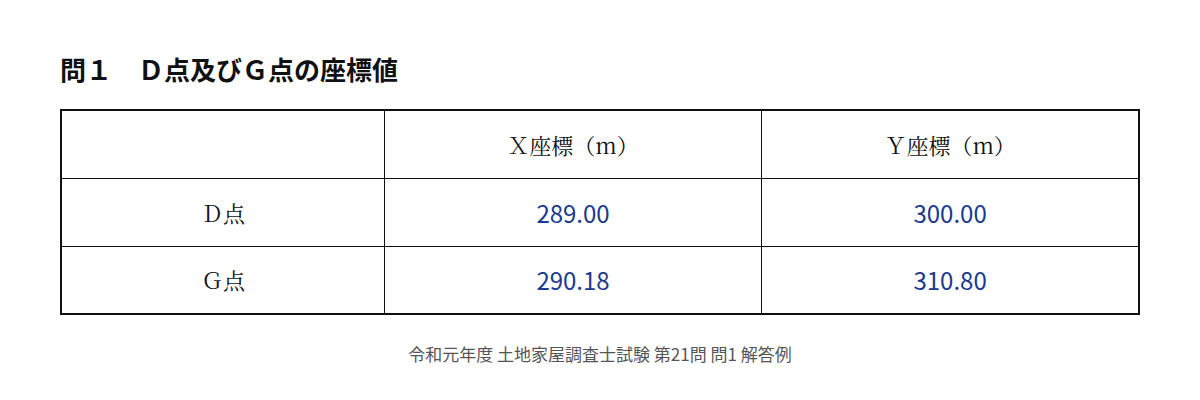
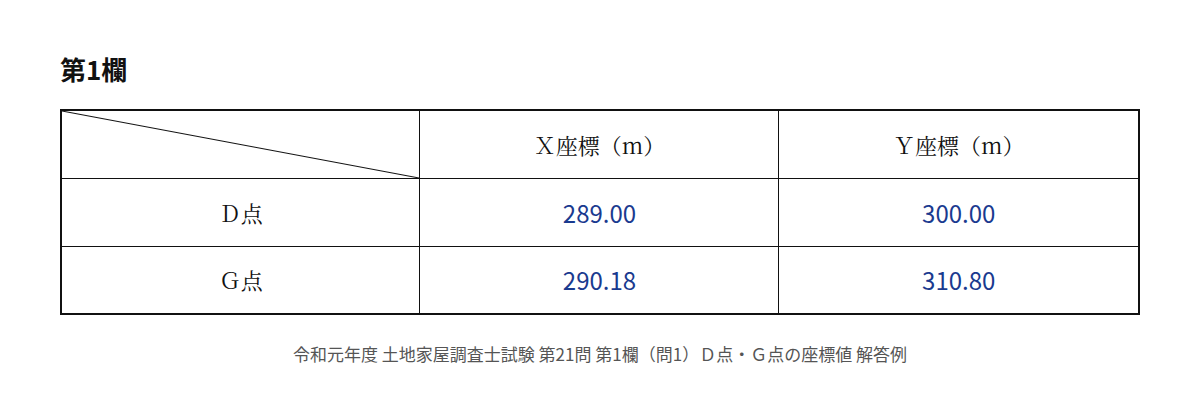
R1 Q21：試験の答案用紙の実物に合わせて第1欄・第2欄の画像を直した
仮の形（見出し「問１」「問２」、第2欄は2列の表）を、実物どおり見出し「第1欄」「第2欄」、第1欄は斜線のセルと等幅3列、第2欄は⑴〜⑶の見出しの下に記入枠を1つずつに直した。答案用紙の見出しは「関係人の氏名」でも問題文どおり名称（Ａ市）も書くこと、第3欄・第4欄の印刷済みのものと方位記号を描くことを記事と図12に追加。照合スクリプトで答案用紙PDFの印刷文字を確かめるようにした。答えは変えていない（verify NG 0件、lint違反なし、重なり0件）。

Claude-Session: https://claude.ai/code/session_014aMAcBjFaE2M2LioX2yxPf

diff --git a/note-articles-Kijyutsu/R1/Q21/zu/R1_dai21mon_dai1ran_kansei.html b/note-articles-Kijyutsu/R1/Q21/zu/R1_dai21mon_dai1ran_kansei.html
@@ -8,7 +8,12 @@ table.ans td { border: 1.5px solid #111; font-size: 22px; height: 68px; padding:
 table.ans td.c { text-align: center; }
 table.ans td.lab { height: 46px; font-size: 20px; }
 table.ans td.long { height: auto; padding: 16px 18px; line-height: 1.75; }
+table.ans td.diag { background: linear-gradient(to top right, transparent calc(50% - 1px), #111 50%, transparent calc(50% + 1px)); }
+.sub { font-size: 22px; margin: 6px 0 10px 4px; }
+.sub + .wbox { margin-left: 30px; }
+.wbox { border: 2.5px solid #111; min-height: 120px; padding: 18px 24px; margin-bottom: 26px; display: flex; align-items: center; }
+.wbox .ink { color: #1a3a8f; font-family: "Noto Sans CJK JP", "IPAGothic", sans-serif; font-size: 26px; line-height: 1.6; }
 table.ans .ink { color: #1a3a8f; font-family: "Noto Sans CJK JP", "IPAGothic", sans-serif; font-size: 24px; }
 .ran .caption { text-align: center; font-size: 17px; color: #555; margin-top: 26px;
                 font-family: "Noto Sans CJK JP", "IPAGothic", sans-serif; }
-</style></head><body><div class="ran"><h2>問１　Ｄ点及びＧ点の座標値</h2><table class="ans"><colgroup><col style="width:30%"><col style="width:35%"><col style="width:35%"></colgroup><tr><td class="c"></td><td class="c">Ｘ座標（m）</td><td class="c">Ｙ座標（m）</td></tr><tr><td class="c">Ｄ点</td><td class="c"><span class="ink">289.00</span></td><td class="c"><span class="ink">300.00</span></td></tr><tr><td class="c">Ｇ点</td><td class="c"><span class="ink">290.18</span></td><td class="c"><span class="ink">310.80</span></td></tr></table><div class="caption">令和元年度 土地家屋調査士試験 第21問 問1 解答例</div></div></body></html>
+</style></head><body><div class="ran"><h2>第1欄</h2><table class="ans"><colgroup><col style="width:33.3%"><col style="width:33.3%"><col style="width:33.4%"></colgroup><tr><td class="c diag"></td><td class="c">Ｘ座標（m）</td><td class="c">Ｙ座標（m）</td></tr><tr><td class="c">Ｄ点</td><td class="c"><span class="ink">289.00</span></td><td class="c"><span class="ink">300.00</span></td></tr><tr><td class="c">Ｇ点</td><td class="c"><span class="ink">290.18</span></td><td class="c"><span class="ink">310.80</span></td></tr></table><div class="caption">令和元年度 土地家屋調査士試験 第21問 第1欄（問1）Ｄ点・Ｇ点の座標値 解答例</div></div></body></html>

diff --git a/note-articles-Kijyutsu/R1/Q21/zu/R1_dai21mon_dai2ran_kansei.html b/note-articles-Kijyutsu/R1/Q21/zu/R1_dai21mon_dai2ran_kansei.html
@@ -8,7 +8,12 @@ table.ans td { border: 1.5px solid #111; font-size: 22px; height: 68px; padding:
 table.ans td.c { text-align: center; }
 table.ans td.lab { height: 46px; font-size: 20px; }
 table.ans td.long { height: auto; padding: 16px 18px; line-height: 1.75; }
+table.ans td.diag { background: linear-gradient(to top right, transparent calc(50% - 1px), #111 50%, transparent calc(50% + 1px)); }
+.sub { font-size: 22px; margin: 6px 0 10px 4px; }
+.sub + .wbox { margin-left: 30px; }
+.wbox { border: 2.5px solid #111; min-height: 120px; padding: 18px 24px; margin-bottom: 26px; display: flex; align-items: center; }
+.wbox .ink { color: #1a3a8f; font-family: "Noto Sans CJK JP", "IPAGothic", sans-serif; font-size: 26px; line-height: 1.6; }
 table.ans .ink { color: #1a3a8f; font-family: "Noto Sans CJK JP", "IPAGothic", sans-serif; font-size: 24px; }
 .ran .caption { text-align: center; font-size: 17px; color: #555; margin-top: 26px;
                 font-family: "Noto Sans CJK JP", "IPAGothic", sans-serif; }
-</style></head><body><div class="ran"><h2>問２　筆界特定（平成18年9月の申請）</h2><table class="ans"><colgroup><col style="width:34%"><col style="width:66%"></colgroup><tr><td class="">（1）対象土地の地番</td><td class="long"><span class="ink">6番、5番</span></td></tr><tr><td class="">（2）関係土地の地番</td><td class="long"><span class="ink">2番32、3番3、100番</span></td></tr><tr><td class="">（3）関係人の氏名又は名称</td><td class="long"><span class="ink">北冬子、山川一郎、東春男、東春子、西秋男、Ａ市</span></td></tr></table><div class="caption">令和元年度 土地家屋調査士試験 第21問 問2 解答例</div></div></body></html>
+</style></head><body><div class="ran"><h2>第2欄</h2><div class="sub">（1）　対象土地の地番</div><div class="wbox"><span class="ink">6番、5番</span></div><div class="sub">（2）　関係土地の地番</div><div class="wbox"><span class="ink">2番32、3番3、100番</span></div><div class="sub">（3）　関係人の氏名</div><div class="wbox"><span class="ink">北冬子、山川一郎、東春男、東春子、西秋男、Ａ市</span></div><div class="caption">令和元年度 土地家屋調査士試験 第21問 第2欄（問2）筆界特定（平成18年9月の申請）解答例</div></div></body></html>

diff --git a/note-articles-Kijyutsu/R1/Q21/verify_R1_dai21mon_kaiwa.py b/note-articles-Kijyutsu/R1/Q21/verify_R1_dai21mon_kaiwa.py
@@ -332,15 +332,69 @@ for s_ in ['だから（1）は5番と6番', '（2）は2番32、3番3、100番'
     check('問2の答えを会話で明示', s_)
 html_1 = open(os.path.join(ZU, 'R1_dai21mon_dai1ran_kansei.html'), encoding='utf-8').read()
 html_2 = open(os.path.join(ZU, 'R1_dai21mon_dai2ran_kansei.html'), encoding='utf-8').read()
-for s_ in ['問１　Ｄ点及びＧ点の座標値', 'Ｘ座標（m）', 'Ｙ座標（m）', '>289.00<', '>300.00<', '>290.18<', '>310.80<', '問1 解答例']:
-    check('問1の画像（HTML）', s_, html_1, '問1画像')
-for s_ in ['（1）対象土地の地番', '>6番、5番<', '（2）関係土地の地番', '>2番32、3番3、100番<', '（3）関係人の氏名又は名称',
-           '>北冬子、山川一郎、東春男、東春子、西秋男、Ａ市<', '問2 解答例']:
-    check('問2の画像（HTML）', s_, html_2, '問2画像')
-absent('問2の画像に申請人の北冬男がない', '北冬男', html_2, '問2画像')
-for s_ in ['Ｄ点「289.00」「300.00」、Ｇ点「290.18」「310.80」', '「（3）関係人の氏名又は名称」に「北冬子、山川一郎、東春男、東春子、西秋男、Ａ市」',
-           '**仮のもの**']:
-    check('問1・問2の画像のプロンプト', s_, form, '登記申請書')
+for s_ in ['<h2>第1欄</h2>', 'Ｘ座標（m）', 'Ｙ座標（m）', 'class="c diag"', '>289.00<', '>300.00<', '>290.18<', '>310.80<',
+           '第1欄（問1）Ｄ点・Ｇ点の座標値 解答例']:
+    check('第1欄の画像（HTML）', s_, html_1, '第1欄画像')
+for s_ in ['<h2>第2欄</h2>', '（1）　対象土地の地番', '>6番、5番<', '（2）　関係土地の地番', '>2番32、3番3、100番<',
+           '（3）　関係人の氏名', '>北冬子、山川一郎、東春男、東春子、西秋男、Ａ市<', 'class="wbox"', '第2欄（問2）筆界特定（平成18年9月の申請）解答例']:
+    check('第2欄の画像（HTML）', s_, html_2, '第2欄画像')
+absent('第1欄の画像の見出しは印刷どおり欄の番号だけ', '<h2>第1欄　', html_1, '第1欄画像')
+absent('第2欄の画像の見出しは印刷どおり欄の番号だけ', '<h2>第2欄　', html_2, '第2欄画像')
+absent('第2欄の画像に申請人の北冬男がない', '北冬男', html_2, '第2欄画像')
+absent('第2欄の画像の見出しは答案用紙どおり（問題文の「又は名称」は印刷されていない）', '氏名又は名称', html_2, '第2欄画像')
+absent('第2欄の画像は答案用紙どおり表にしない', '<table', html_2, '第2欄画像')
+for h_, n_ in [(html_1, '第1欄画像'), (html_2, '第2欄画像')]:
+    for bad_ in ['問１', '問２']:
+        absent('見出しは欄の番号（問の番号ではない）', bad_, h_, n_)
+for s_ in ['Ｄ点「289.00」「300.00」、Ｇ点「290.18」「310.80」', '（3）に「北冬子、山川一郎、東春男、東春子、西秋男、Ａ市」',
+           '試験の答案用紙（`touan_youshi/R1_dai21mon_touan_youshi.pdf`、A3横2ページ）で確かめて直した',
+           '答案用紙の（3）の見出しは「関係人の氏名」と印刷されている']:
+    check('第1欄・第2欄の画像のプロンプト', s_, form, '登記申請書')
+
+# ---- 試験の答案用紙（touan_youshi/）の欄の形（2026-10-02追加）----
+# 答案用紙の実物（PDFのテキスト層）に、記事・画像が前提にしている欄の名前・印刷文字があるか。
+import pymupdf  # noqa: E402
+TY = os.path.join(HERE, 'touan_youshi')
+pdf_ = pymupdf.open(os.path.join(TY, 'R1_dai21mon_touan_youshi.pdf'))
+nz_ = lambda t: re.sub(r'\s', '', t).translate(str.maketrans('０１２３４５６７８９', '0123456789'))  # noqa: E731
+t1_, t2_ = nz_(pdf_[0].get_text()), nz_(pdf_[1].get_text())
+for s_ in ['第1欄', 'Ｘ座標（m）', 'Ｙ座標（m）', 'Ｄ点', 'Ｇ点', '第2欄', '⑴対象土地の地番', '⑵関係土地の地番', '⑶関係人の氏名',
+           '第3欄', '登記申請書', '登記の目的', '添付書類', '登録免許税', '申請人', '代理人', '（略）', '令和元年10月18日申請Ａ地方法務局',
+           '所在', '①地番', '②地目', '③地積', '登記原因及びその日付']:
+    check('答案用紙1ページ目の印刷', nz_(s_), t1_, '答案用紙')
+absent('答案用紙の第2欄（3）の見出しに「又は名称」はない', '関係人の氏名又は名称', t1_, '答案用紙')
+order_ = [t1_.index(k) for k in ['登記の目的', '添付書類', '登録免許税', '申請人', '代理人', '令和元年10月18日', '所在']]
+judge('答案用紙の第3欄の順序（登録免許税・申請人が申請の日付より上）', order_ == sorted(order_))
+for s_ in ['第4欄', '地番', '地積測量図', '土地の所在', '作成者', '（令和元年○月○日作成）', '申請人', '縮尺', '1250']:
+    check('答案用紙2ページ目（第4欄）の印刷', s_, t2_, '答案用紙')
+judge(f'答案用紙2ページ目の「（略）」は作成者・申請人の2か所（{t2_.count("（略）")}）', t2_.count('（略）') == 2)
+absent('答案用紙の第4欄に方位記号の印刷はない（文字の「N」がない）', 'N', t2_, '答案用紙')
+# 第4欄の作図の枠の大きさ（150dpiのPNGで罫線を数える）
+im_ = Image.open(os.path.join(TY, 'R1_dai21mon_touan_youshi_p2.png')).convert('L')
+W_, H_ = im_.size
+px_ = im_.load()
+col_ = [y for y in range(H_) if px_[int(W_ * 0.35), y] < 128]
+row_ = [x for x in range(W_) if px_[x, int(H_ * 0.42)] < 128]
+inner_y = [y for y in col_ if H_ * 0.06 < y < H_ * 0.9]
+inner_x = [x for x in row_ if W_ * 0.15 < x < W_ * 0.93]
+fw_, fh_ = (max(inner_x) - min(inner_x)) / 150 * 25.4, (max(inner_y) - min(inner_y)) / 150 * 25.4
+judge(f'第4欄の作図の枠が横約30cm・縦約23cm（{fw_:.0f}mm × {fh_:.0f}mm）', round(fw_ / 10) == 30 and round(fh_ / 10) == 23)
+# 記事・図・プロンプトが答案用紙の形どおりに説明しているか
+for s_ in ['D点とG点の座標（答案用紙の第1欄）', '（第2欄）', '登記申請書（第3欄）', '地積測量図（第4欄）',
+           '第2欄の（3）の見出しは『関係人の氏名』とだけ印刷されている', '答案用紙の第3欄の順番どおりにね',
+           '『令和元年10月18日　申請　A地方法務局』は印刷済み', '下の作成者・申請人の欄は『（略）』、縮尺の1／250も印刷済み',
+           '方位記号は印刷されていないから、自分で描きなさい', '第4欄の枠は横約30cm・縦約23cm']:
+    check('記事の答案用紙の説明', s_)
+for s_ in ['第4欄の枠は横約30cm・縦約23cm', '作成者・申請人の「（略）」と縮尺1/250は印刷済み。方位記号は印刷がないので描く。',
+           '図12　問4（第4欄）地積測量図']:
+    check('図12（作図）の説明文', s_, draw, '作図')
+check('図12（プロンプト）の答案用紙の第4欄', '方位記号の印刷はない', fig, '解説図')
+check('添削のプロンプトで答案用紙と照合', '試験の答案用紙（`touan_youshi/R1_dai21mon_touan_youshi.pdf` の第3欄）と照らして', fix, '添削')
+# 「仮」の形・「答案用紙がない」の記述が残っていないか
+mk_ = open(os.path.join(ZU, 'make_R1_dai21mon_shinseisho_gazou.py'), encoding='utf-8').read()
+for src_, n_ in [(text, '記事'), (fig, '解説図'), (form, '登記申請書'), (fix, '添削'), (draw, '作図'), (mk_, '画像生成')]:
+    for bad_ in ['仮の', '仮のもの', '（仮）', '欄の形は仮', 'リポジトリにない', 'リポジトリになく']:
+        absent('仮の欄の形の記述', bad_, src_, n_)
 check('問題文の注の書き分け', '今年だけなのは問題文の注5と注6')
 absent('どの注か分からない書き方（解説図プロンプトの差し替えデータ）', '（注3）', fig[fig.index('## 差し替えデータ'):], '解説図')
 

diff --git a/note-articles-Kijyutsu/R1/Q21/zu/make_R1_dai21mon_shinseisho_gazou.py b/note-articles-Kijyutsu/R1/Q21/zu/make_R1_dai21mon_shinseisho_gazou.py
@@ -2,12 +2,18 @@
 
 - 完成形：`../prompt_R1_dai21mon_toukishinseisho_gazou.md`（基本フォーム＋記入データ）どおり。縦長（横1200px）
 - 添削　：`../prompt_R1_dai21mon_toukishinseisho_machigai.md` どおり。①誤答・②添削・③正解の3コマを縦に積んだ縦長（横1200px）
-- 欄の順序は令和元年度の試験の答案用紙どおり（登記の目的 → 添付書類 → 登録免許税 → 申請人 → 代理人 → 申請の日付と提出先 → 土地の表示）
+- 欄の順序は令和元年度の試験の答案用紙どおり（登記の目的 → 添付書類 → 登録免許税 → 申請人 → 代理人 → 申請の日付と提出先 → 土地の表示）。
+  2026-10-02、試験の答案用紙（`../touan_youshi/R1_dai21mon_touan_youshi.pdf` の第3欄）と照らして確かめた：代理人の行の「（略）」と
+  その下の「令和元年10月18日　申請　Ａ地方法務局」は印刷、土地の表示は記入行4行で、③地積はすべての行で点線により整数部・小数部に分け、
+  地積の「（略）」の印刷はない
 
 必要なもの：Python の playwright、Chromium（/opt/pw-browsers）、日本語フォント（IPA明朝・IPAゴシック。Noto があればそちらを優先）
 見本：`../../../R6/Q21/zu/make_R6_dai21mon_shinseisho_gazou.py`
 実行: python3 note-articles-Kijyutsu/R1/Q21/zu/make_R1_dai21mon_shinseisho_gazou.py [出力フォルダ]
-第1欄・第2欄の画像：問1・問2（欄の形は平成30年度にならった仮のもの）の、申請書でない解答欄の完成形（横1200px。2026-10-02追加）
+第1欄・第2欄の画像：問1・問2の、申請書でない解答欄の完成形（横1200px。2026-10-02追加）。欄の形は試験の答案用紙
+（`../touan_youshi/`）で確かめた形：第1欄は左上が斜線のセルと「Ｘ座標（m）」「Ｙ座標（m）」の見出し、Ｄ点・Ｇ点の2行（3列とも同じ幅）。
+第2欄は「（1）　対象土地の地番」「（2）　関係土地の地番」「（3）　関係人の氏名」の見出しの下に、それぞれ大きな記入枠が1つずつ
+（問2の問題文は「関係人の氏名又は名称」だが、答案用紙の見出しは「関係人の氏名」）
 """
 import glob
 import os
@@ -173,6 +179,11 @@ table.ans td {{ border: 1.5px solid #111; font-size: 22px; height: 68px; padding
 table.ans td.c {{ text-align: center; }}
 table.ans td.lab {{ height: 46px; font-size: 20px; }}
 table.ans td.long {{ height: auto; padding: 16px 18px; line-height: 1.75; }}
+table.ans td.diag {{ background: linear-gradient(to top right, transparent calc(50% - 1px), #111 50%, transparent calc(50% + 1px)); }}
+.sub {{ font-size: 22px; margin: 6px 0 10px 4px; }}
+.sub + .wbox {{ margin-left: 30px; }}
+.wbox {{ border: 2.5px solid #111; min-height: 120px; padding: 18px 24px; margin-bottom: 26px; display: flex; align-items: center; }}
+.wbox .ink {{ color: {INK}; font-family: "Noto Sans CJK JP", "IPAGothic", sans-serif; font-size: 26px; line-height: 1.6; }}
 table.ans .ink {{ color: {INK}; font-family: "Noto Sans CJK JP", "IPAGothic", sans-serif; font-size: 24px; }}
 .ran .caption {{ text-align: center; font-size: 17px; color: #555; margin-top: 26px;
                 font-family: "Noto Sans CJK JP", "IPAGothic", sans-serif; }}
@@ -185,31 +196,27 @@ def ran_page(title, table_html, caption):
 
 
 def zahyou_table(rows):
-    """座標値の表（答案用紙どおり：見出し行は空欄・X座標（m）・Y座標（m））。rows: [(点名, X, Y)]"""
-    h = ['<table class="ans"><colgroup><col style="width:30%"><col style="width:35%"><col style="width:35%"></colgroup>',
-         '<tr><td class="c"></td><td class="c">Ｘ座標（m）</td><td class="c">Ｙ座標（m）</td></tr>']
+    """座標値の表（答案用紙の第1欄どおり：左上は斜線のセル・Ｘ座標（m）・Ｙ座標（m）、3列とも同じ幅）。rows: [(点名, X, Y)]"""
+    h = ['<table class="ans"><colgroup><col style="width:33.3%"><col style="width:33.3%"><col style="width:33.4%"></colgroup>',
+         '<tr><td class="c diag"></td><td class="c">Ｘ座標（m）</td><td class="c">Ｙ座標（m）</td></tr>']
     for n, x, yy in rows:
         h.append(f'<tr><td class="c">{n}</td><td class="c"><span class="ink">{x}</span></td>'
                  f'<td class="c"><span class="ink">{yy}</span></td></tr>')
     return ''.join(h) + '</table>'
 
 
-def kigou_table(rows, w=30, center=True):
-    """記号（ア〜エ、（1）〜（3）など）と記入欄の2列の表。rows: [(記号, 答え)]"""
-    cls = 'c' if center else ''
-    h = [f'<table class="ans"><colgroup><col style="width:{w}%"><col style="width:{100 - w}%"></colgroup>']
-    for k, v in rows:
-        h.append(f'<tr><td class="{cls}">{k}</td><td class="long"><span class="ink">{v}</span></td></tr>')
-    return ''.join(h) + '</table>'
+def koumoku_waku(items):
+    """答案用紙の第2欄どおり：見出し（（1）〜（3））の下に、大きな記入枠を1つずつ。items: [(見出し, 答え)]"""
+    return ''.join(f'<div class="sub">{k}</div><div class="wbox"><span class="ink">{v}</span></div>' for k, v in items)
 
-# 令和元年度の試験の答案用紙はリポジトリにないため、欄の形は同じ時期（平成30年度）の答案用紙の座標値の表・記号の表にならった仮のもの。
-# 欄の番号が確かめられないので、見出しは「問１」「問２」にした（試験の答案用紙で確かめたら合わせて直す）。
-dai1 = ran_page('問１　Ｄ点及びＧ点の座標値', zahyou_table([('Ｄ点', '289.00', '300.00'), ('Ｇ点', '290.18', '310.80')]),
-                '令和元年度 土地家屋調査士試験 第21問 問1 解答例')
-dai2 = ran_page('問２　筆界特定（平成18年9月の申請）',
-                kigou_table([('（1）対象土地の地番', '6番、5番'), ('（2）関係土地の地番', '2番32、3番3、100番'),
-                             ('（3）関係人の氏名又は名称', '北冬子、山川一郎、東春男、東春子、西秋男、Ａ市')], w=34, center=False),
-                '令和元年度 土地家屋調査士試験 第21問 問2 解答例')
+
+# 見出しは答案用紙の印刷どおり欄の番号だけにし、問の内容はキャプションに書く。欄の形・欄の番号は、試験の答案用紙（../touan_youshi/R1_dai21mon_touan_youshi.pdf）で確かめた（2026-10-02）。
+dai1 = ran_page('第1欄', zahyou_table([('Ｄ点', '289.00', '300.00'), ('Ｇ点', '290.18', '310.80')]),
+                '令和元年度 土地家屋調査士試験 第21問 第1欄（問1）Ｄ点・Ｇ点の座標値 解答例')
+dai2 = ran_page('第2欄',
+                koumoku_waku([('（1）　対象土地の地番', '6番、5番'), ('（2）　関係土地の地番', '2番32、3番3、100番'),
+                              ('（3）　関係人の氏名', '北冬子、山川一郎、東春男、東春子、西秋男、Ａ市')]),
+                '令和元年度 土地家屋調査士試験 第21問 第2欄（問2）筆界特定（平成18年9月の申請）解答例')
 RAN = [('R1_dai21mon_dai1ran_kansei', dai1), ('R1_dai21mon_dai2ran_kansei', dai2)]
 
 exe = sorted(glob.glob('/opt/pw-browsers/chromium-*/chrome-linux/chrome'))

diff --git a/note-articles-Kijyutsu/R1/Q21/zu/draw_R1_dai21mon_kaisetsuzu.py b/note-articles-Kijyutsu/R1/Q21/zu/draw_R1_dai21mon_kaisetsuzu.py
@@ -378,10 +378,12 @@ for n, p in PTS.items():
 ALL_PROBLEMS += save(fig, [z], 'R1_dai21mon_zu11_chimoku.png')
 
 # =====================================================================
-# 図12：問4 地積測量図（5番1・5番2・5番3）の完成見本
+# 図12：問4（第4欄）地積測量図（5番1・5番2・5番3）の完成見本（答案用紙の第4欄の印刷は ../touan_youshi/ で確かめた）
 # =====================================================================
-fig, (ax,) = new_figure('図12　問4　地積測量図（5番1・5番2・5番3）の完成見本',
+fig, (ax,) = new_figure('図12　問4（第4欄）地積測量図（5番1・5番2・5番3）の完成見本',
                         '縮尺1/250で答案用紙に描くと 1m ＝ 4mm（本件土地は横約72mm・縦約52mm、T1・T2まで入れると横約84mm・縦約67mm）。\n'
+                        '第4欄の枠は横約30cm・縦約23cm。地番の欄は「5番1、5番2、5番3」、土地の所在の欄は「A市B町一丁目」。\n'
+                        '作成者・申請人の「（略）」と縮尺1/250は印刷済み。方位記号は印刷がないので描く。\n'
                         '辺長は小数第3位を四捨五入（EB 7.4254→7.43、AE 10.6853→10.69、CD 18.0013→18.00）。\n'
                         '座標値・平面直角座標系の番号・地積と求積方法・測量年月日は書かない（問題文の注5）。基準点T1・T2は位置と点名だけ（問題文の注6）。')
 z = Zu(ax)

diff --git a/note-articles-Kijyutsu/R1/Q21/note_R1_dai21mon_tochi_kaiwa_kaisetsu.md b/note-articles-Kijyutsu/R1/Q21/note_R1_dai21mon_tochi_kaiwa_kaisetsu.md
@@ -35,10 +35,10 @@
 **トリ先生**  
 「上出来。予定地番は、甲区画が5番1、乙区画が5番2、丙区画が5番3。それから、問2だけは時間が平成18年にさかのぼる話よ。設問との対応を押さえておきなさい」
 
-- **問1**：D点とG点の座標
-- **問2**：平成18年9月に北冬男が申請した筆界特定の（1）対象土地の地番、（2）関係土地の地番、（3）関係人の氏名又は名称
-- **問3**：令和元年10月18日の登記申請書
-- **問4**：問3の申請書に付ける地積測量図
+- **問1**：D点とG点の座標（答案用紙の第1欄）
+- **問2**：平成18年9月に北冬男が申請した筆界特定の（1）対象土地の地番、（2）関係土地の地番、（3）関係人の氏名又は名称（第2欄）
+- **問3**：令和元年10月18日の登記申請書（第3欄）
+- **問4**：問3の申請書に付ける地積測量図（第4欄）
 
 **藍子**  
 「問1・問3・問4が今の分筆の話、問2は昔の筆界特定の話ですね」
@@ -234,7 +234,7 @@ G ＝ F ＋ (H − F) × ( w ＋ Conjg(w) ) ÷ 2
 
 **▶ G点（290.18, 310.80）**
 
-> 【画像挿入】問1の完成形（D点・G点のX座標・Y座標を答案用紙の表に記入）
+> 【画像挿入】問1の完成形（D点・G点のX座標・Y座標を答案用紙の第1欄の表に記入）
 
 **藍子**  
 「X座標はたまたま同じ290.18なのに、Y座標は310.80。真南に下ろした310.62より0.18m東です！」
@@ -353,13 +353,13 @@ G ＝ F ＋ (H − F) × 194.514 ÷ 324.09
 「北冬男さんを外して、北冬子、山川一郎、東春男、東春子、西秋男、A市。A市は『名称』のほうですね」
 
 **トリ先生**  
-「そう。整理しておくわ」
+「そう。答案用紙の第2欄の（3）の見出しは『関係人の氏名』とだけ印刷されているけれど、問2の問題文は『氏名又は名称』と聞いているの。だから名称のA市も書くのよ。整理しておくわ」
 
 - **（1）対象土地の地番**：6番、5番
 - **（2）関係土地の地番**：2番32、3番3、100番
 - **（3）関係人の氏名又は名称**：北冬子、山川一郎、東春男、東春子、西秋男、A市
 
-> 【画像挿入】問2の完成形（（1）対象土地の地番・（2）関係土地の地番・（3）関係人の氏名又は名称を答案用紙の欄に記入）
+> 【画像挿入】問2の完成形（答案用紙の第2欄の（1）対象土地の地番・（2）関係土地の地番・（3）関係人の氏名の枠に記入）
 
 > 【画像挿入】問2（3）関係人の整理図（第133条第1項第1号＝対象土地の所有者のうち申請人以外、第2号＝関係土地の所有者。申請人の北冬男は外し、3番2の南夏男・7番の中太郎も入らない）
 
@@ -571,7 +571,7 @@ G ＝ F ＋ (H − F) × 194.514 ÷ 324.09
 「登記の目的と（イ）の行は直りました。ほかの欄はどうなりますか？」
 
 **トリ先生**  
-「残りの欄も一つずつ埋めなさい。答案用紙の順番どおりにね」
+「残りの欄も一つずつ埋めなさい。答案用紙の第3欄の順番どおりにね。代理人の行の『（略）』と、その下の『令和元年10月18日　申請　A地方法務局』は印刷済み。書くのは、登記の目的・添付書類・登録免許税・申請人の枠と、所在と土地の表示の4行よ」
 
 - **登記の目的**：土地地積更正・分筆登記
 - **添付書類**：地積測量図　代理権限証書
@@ -596,7 +596,7 @@ G ＝ F ＋ (H − F) × 194.514 ÷ 324.09
 **トリ先生**  
 「1行目の地積は、計算した214.02じゃなくて、登記記録の212.70。（ロ）と（ハ）の原因は、分筆前の地番の『5番から分筆』よ。5番1から分筆したわけじゃないの。これで問3は完成」
 
-> 【画像挿入】登記申請書（問3）の完成形（登記の目的、添付書類、登録免許税、申請人、土地の表示4行）
+> 【画像挿入】登記申請書（問3）の完成形（答案用紙の第3欄。登記の目的、添付書類、登録免許税、申請人、土地の表示4行）
 
 ---
 
@@ -609,7 +609,7 @@ G ＝ F ＋ (H − F) × 194.514 ÷ 324.09
 「地番欄は『5番1、5番2、5番3』、土地の所在は『A市B町一丁目』。区画には（イ）5－1、（ロ）5－2、（ハ）5－3と書きます」
 
 **トリ先生**  
-「次は辺長。問題文の注4で小数第3位を四捨五入よ」
+「そう。答案用紙の第4欄は、表題の『地積測量図』の横にある『地番』と『土地の所在』の欄に書くの。下の作成者・申請人の欄は『（略）』、縮尺の1／250も印刷済みよ。方位記号は印刷されていないから、自分で描きなさい。次は辺長。問題文の注4で小数第3位を四捨五入よ」
 
 - **AE**：10.69
 - **EB**：7.43
@@ -632,9 +632,9 @@ G ＝ F ＋ (H − F) × 194.514 ÷ 324.09
 - **書かない**：各筆界点の座標値、平面直角座標系の番号又は記号、地積及びその求積方法、測量年月日（問題文の注5）。T1・T2の座標値（問題文の注6）
 
 **トリ先生**  
-「縮尺は250分の1だから、1m ＝ 4mm。本件土地は東西18m・南北13mくらいだから、答案用紙の上では横約72mm・縦約52mmよ。基準点のT1・T2も描くから、図に入れる範囲はX座標285.36〜302.00、Y座標297.00〜318.00。縦約67mm・横約84mmで、答案用紙の枠に十分収まるわ。A・F・Dは真北向きの一直線、B・H・Cも真北向きの一直線。F・G・Hも一直線だけど、G点で折れているように描かないこと。EGはFHに直角よ」
+「縮尺は250分の1だから、1m ＝ 4mm。本件土地は東西18m・南北13mくらいだから、答案用紙の上では横約72mm・縦約52mmよ。基準点のT1・T2も描くから、図に入れる範囲はX座標285.36〜302.00、Y座標297.00〜318.00。縦約67mm・横約84mm。第4欄の枠は横約30cm・縦約23cmだから、十分収まるわ。A・F・Dは真北向きの一直線、B・H・Cも真北向きの一直線。F・G・Hも一直線だけど、G点で折れているように描かないこと。EGはFHに直角よ」
 
-> 【画像挿入】地積測量図（5番1・5番2・5番3）の完成見本（辺長10本、（イ）5－1・（ロ）5－2・（ハ）5－3、境界標の記号、T1・T2、隣接地の地番）
+> 【画像挿入】第4欄の地積測量図（5番1・5番2・5番3）の完成見本（辺長10本、（イ）5－1・（ロ）5－2・（ハ）5－3、境界標の記号、T1・T2、隣接地の地番）
 
 ---
 

diff --git a/note-articles-Kijyutsu/R1/Q21/prompt_R1_dai21mon_toukishinseisho_gazou.md b/note-articles-Kijyutsu/R1/Q21/prompt_R1_dai21mon_toukishinseisho_gazou.md
@@ -6,7 +6,7 @@
 
 ※2026-09-29、このプロンプトどおりに生成済み：`zu/R1_dai21mon_toukishinseisho_kansei.png`（1200×1650px、縦長）と元のHTML。生成スクリプトは `zu/make_R1_dai21mon_shinseisho_gazou.py`（印刷文字はIPA明朝、記入はNoto Sans CJK JP）。2026-09-29、Noto Sans CJK JP を入れて描き直したとき、記入の文字が IPAゴシックより横に広く、「（イ）5番１」が地番の欄で2行に折れ返ったので、地番の列を16%→19%に広げ（地目13%・登記原因42%）、地番のセルを折り返さない設定にした。
 
-※2026-10-02、最新の執筆ルール（申請書でない解答欄の画像）に合わせて、問1・問2の完成形を、末尾の「問1・問2の完成形」のとおり別の画像にした（`zu/R1_dai21mon_dai1ran_kansei.png`・`zu/R1_dai21mon_dai2ran_kansei.png`。横1200pxで横長。同じ生成スクリプト）。令和元年度の試験の答案用紙はリポジトリになく（2026-09-29の作成時の添付で読んだが、問1・問2の欄の形はこのプロンプトにも記事にも記録がない）、問1・問2の欄の形は同じ時期の平成30年度の答案用紙（`public/kijutsu/H30-tochi/a1.webp` の第1欄の座標値の表と第2欄の記号の表）にならった**仮のもの**。欄の番号も確かめられないので、見出しは「問１」「問２」にした。試験の答案用紙で確かめたら、欄の名前・形を合わせて直す。
+※2026-10-02、最新の執筆ルール（申請書でない解答欄の画像）に合わせて、問1・問2の完成形を、末尾の「第1欄・第2欄の完成形」のとおり別の画像にした（`zu/R1_dai21mon_dai1ran_kansei.png`・`zu/R1_dai21mon_dai2ran_kansei.png`。横1200pxで横長。同じ生成スクリプト）。当初は試験の答案用紙が手元になく、平成30年度の答案用紙にならった形（見出しは問の番号、第2欄は2列の表）にしていたが、同日、試験の答案用紙（`touan_youshi/R1_dai21mon_touan_youshi.pdf`、A3横2ページ）で確かめて直した。1ページ目の左に第1欄（D点・G点の座標の表）と第2欄（（1）〜（3）の見出しの下に記入枠が1つずつ）、右に第3欄（この登記申請書）、2ページ目が第4欄（地積測量図）。この登記申請書の欄の名前・順序・印刷文字（「添付書類」「登録免許税」の欄がある、代理人の行の「（略）」、「令和元年10月18日　申請　Ａ地方法務局」、土地の表示は記入行4行で地積は点線で整数部・小数部に分け、地積の「（略）」の印刷はない）は、このプロンプトの形と同じだった。
 
 ---
 
@@ -162,10 +162,10 @@ PNGを渡す前に、次の点を自分で確認してください。
 - 地目は4行とも宅地（家庭菜園の丙区画も宅地。一部地目変更の原因は書かない）
 - 登録免許税は分筆後の3個分の金3,000円（地積更正にはかからない）
 
-## 問1・問2の完成形（申請書でない解答欄。2026-10-02追加。欄の形は仮）
+## 第1欄・第2欄の完成形（申請書でない解答欄。2026-10-02追加。欄の形は試験の答案用紙で確かめた）
 
-- 横1200px、背景は白。上に見出し（黒の太字）。最下部に小さくキャプション「令和元年度 土地家屋調査士試験 第21問 問1 解答例」「…問2 解答例」
+- 横1200px、背景は白。上に見出し（黒の太字）。最下部に小さくキャプション「令和元年度 土地家屋調査士試験 第21問 第1欄（問1）Ｄ点・Ｇ点の座標値 解答例」「令和元年度 土地家屋調査士試験 第21問 第2欄（問2）筆界特定（平成18年9月の申請）解答例」。見出しは答案用紙の印刷どおり「第1欄」「第2欄」だけにし、問の内容はキャプションに書く
 - 印刷部分は黒の明朝、記入部分は濃い青のゴシック
-- **問1**（`zu/R1_dai21mon_dai1ran_kansei.png`。記事の第3章、G点の答えの直後）：見出し「問１　Ｄ点及びＧ点の座標値」。3列の表（見出し行は空欄・「Ｘ座標（m）」・「Ｙ座標（m）」）。Ｄ点「289.00」「300.00」、Ｇ点「290.18」「310.80」
-- **問2**（`zu/R1_dai21mon_dai2ran_kansei.png`。記事の第4章、（1）〜（3）の箇条書きの直後）：見出し「問２　筆界特定（平成18年9月の申請）」。項目と記入欄の2列の表。「（1）対象土地の地番」に「6番、5番」、「（2）関係土地の地番」に「2番32、3番3、100番」、「（3）関係人の氏名又は名称」に「北冬子、山川一郎、東春男、東春子、西秋男、Ａ市」
+- **第1欄**（`zu/R1_dai21mon_dai1ran_kansei.png`。記事の第3章、G点の答えの直後）：見出し「第1欄」。答案用紙どおり3列とも同じ幅の表で、左上の見出しのセルは斜線、見出し「Ｘ座標（m）」「Ｙ座標（m）」。Ｄ点「289.00」「300.00」、Ｇ点「290.18」「310.80」
+- **第2欄**（`zu/R1_dai21mon_dai2ran_kansei.png`。記事の第4章、（1）〜（3）の箇条書きの直後）：見出し「第2欄」。答案用紙どおり、印刷の見出し「（1）　対象土地の地番」「（2）　関係土地の地番」「（3）　関係人の氏名」の下に、大きな記入枠を1つずつ（表にしない）。（1）に「6番、5番」、（2）に「2番32、3番3、100番」、（3）に「北冬子、山川一郎、東春男、東春子、西秋男、Ａ市」。問2の問題文は「関係人の氏名又は名称」だが、答案用紙の（3）の見出しは「関係人の氏名」と印刷されている。見出しは答案用紙どおりにし、記入は問題文どおり名称のＡ市も書く
 - 確認：G点のY座標が310.80（真南に下ろした310.62ではない）か。（1）が筆界特定の申請の時点の地番（6番1ではない）か。（3）に申請人の北冬男が入っていないか
